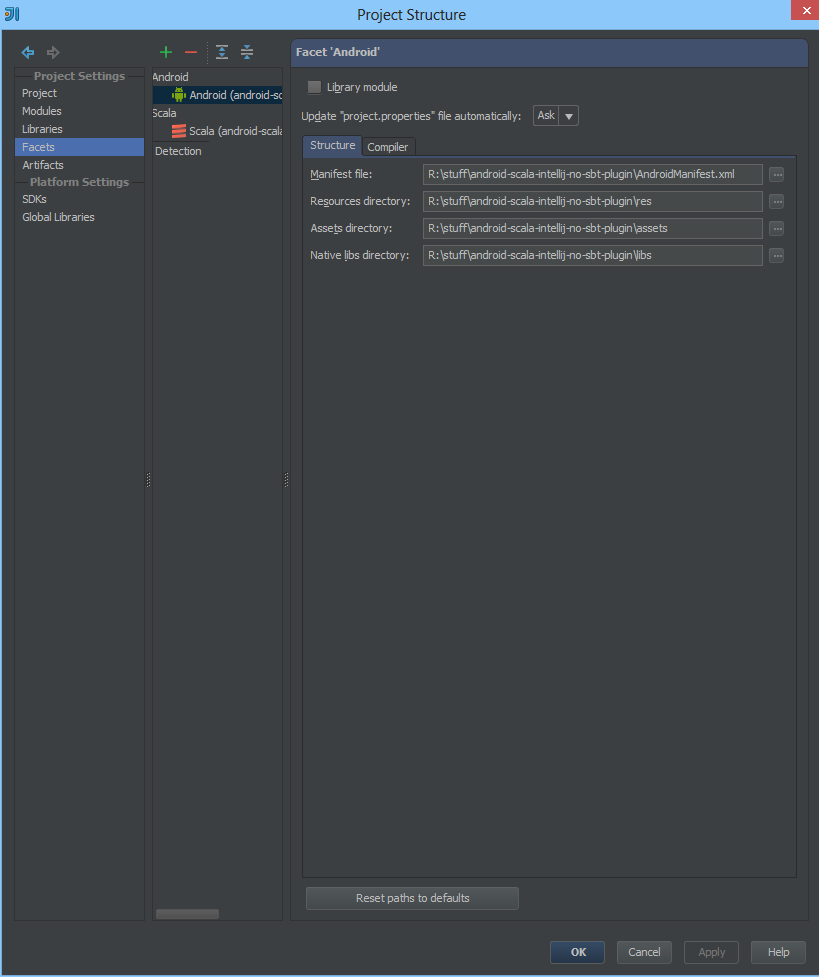
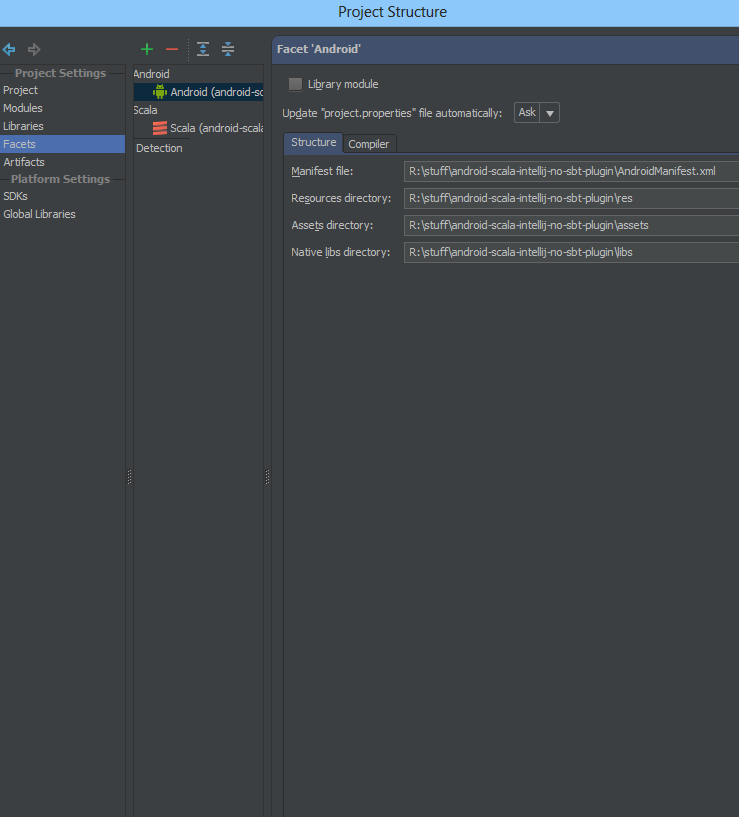
Reduced the picture size

diff --git a/readme.md b/readme.md
@@ -10,8 +10,6 @@ Before you had to use something [like this with sbt](https://github.com/jberkel/
 
 [Text based directions are below](https://github.com/yareally/android-scala-intellij-no-sbt-plugin/blob/master/readme.md#building-with-intellij-idea-12-or-android-studio). I'll add some images soon.
 
-Until I add some images in this guide, directions with images can be [found here](http://stackoverflow.com/a/17515300/1643939) thanks to a helpful user.
-
 
 ## Caveats
 
@@ -76,6 +74,8 @@ Feel free to create an issue and/or send a pull request.
 
 3. Set up the Scala facet for the Android project (add continuations if you wish). Alternatively, setting up a Scala project and then adding an Android Facet might be easier for some. It's possible to do this while creating a new project or for an exising project via *File → Project Structure → Facets*
 
+  ![module settings](/pics/facets.png "Project Facets")
+
 4. Add the following jars as libraries to your project via *File → Project Structure → Libraries*:
 
   **scala-actors.jar** under */path-to-scala-install-dir/libs/*
@@ -85,6 +85,10 @@ Feel free to create an issue and/or send a pull request.
   **continuations.jar** (optional, though it's required for actors, futures, promises, async/await, etc). The jar is in your scala install directory under */path-to-scala-install-dir/misc/scala-devel/plugins*.
 
 5. Make sure the libraries created above are set as a dependency for all modules you add a Scala facet from step 2. Module dependencies are set via *File → Project Structure → Modules → Dependencies Tab*.
+
+  ![module settings](/pics/modules-deps.png "Android Project Dependencies")
+
+  ![module settings](/pics/modules-scala.png "Scala Project Dependencies")
 
   If you create any additional modules not using Scala (like Java only ones), but wish to use code you wrote from a module with a Scala facet, you just have to add that Scala module as a dependency to the Java only module as you would normally in Intellij.
 
@@ -99,14 +103,18 @@ Feel free to create an issue and/or send a pull request.
 
   Go to: File → project settings → modules → select module(s) → compiler tab → enable proguard
 
-#### Intellij 13 / Android Studio 
+#### Intellij 13 / Android Studio
 
   Go to: *File → project settings → modules → select module(s) → compiler tab → check Run Proguard checkbox*
+
+  ![module settings](/pics/modules.png "Compiler Settings")
 
   Make sure both your project proguard file (proguard-project.txt) and the Android SDK provided one (found under */android-sdk-home/tools/proguard/proguard-android.txt*) are both added to the list below the checkbox.
 
 ### Compiling your Project
 
-1. After adding proguard, build the project like how you would a normal Java Android project. Proguard is a little slow, but it's required unless you preload the libraries onto the device (which requires root or using the previously mentioned sbt plugin).
+1. After adding proguard, build the project like how you would a normal Java Android project. Proguard is a little slow, but it's required unless you preload the libraries onto the device (which requires root or using the previously mentioned sbt plugin). You should see no errors in the example activity (other than a highlight bug on * symbol for the test() method you can ignore). If anyone has time, feel free to file an issue about it with JetBrains, but it's not a major issue.
+
+  ![module settings](/pics/activity.png "Android Project Dependencies")
 
 2. Run the application
